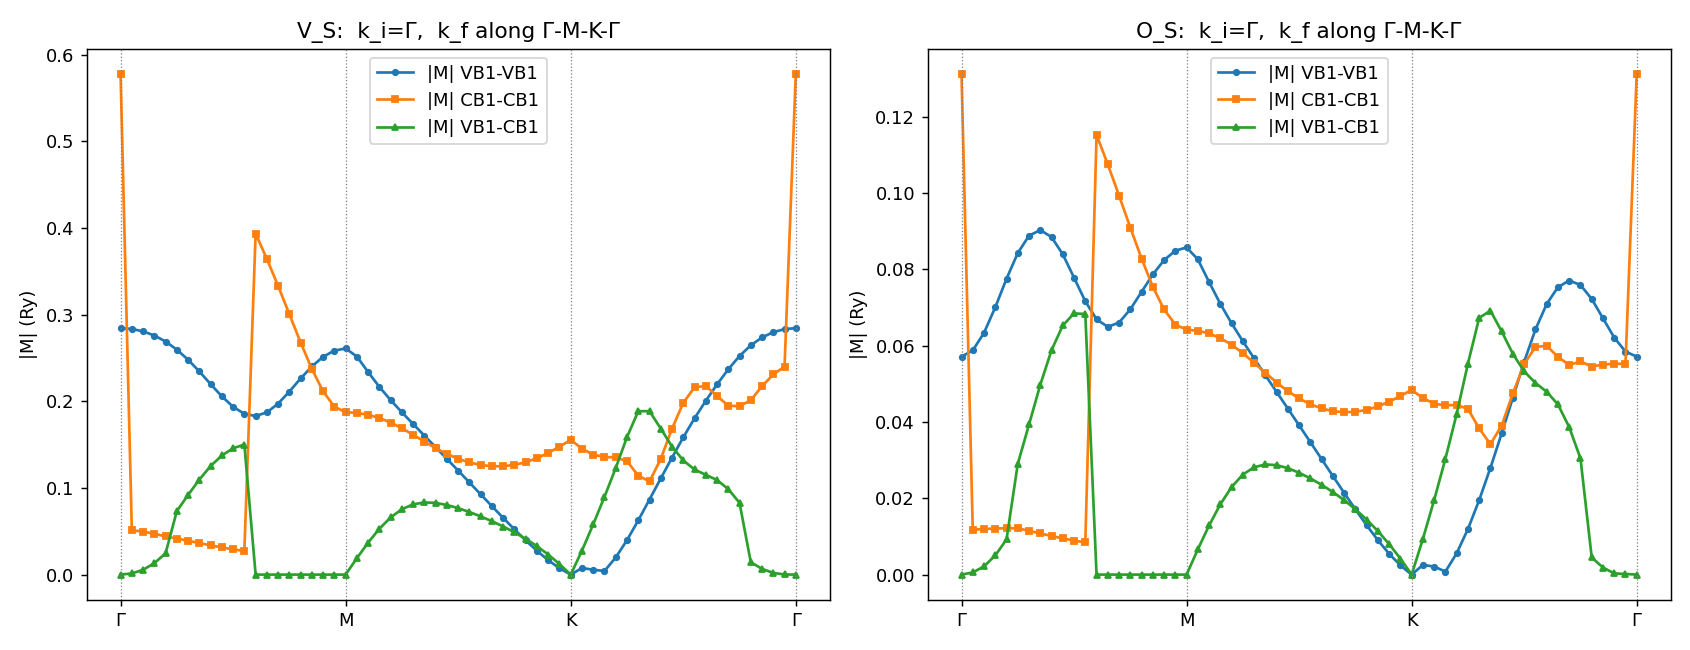
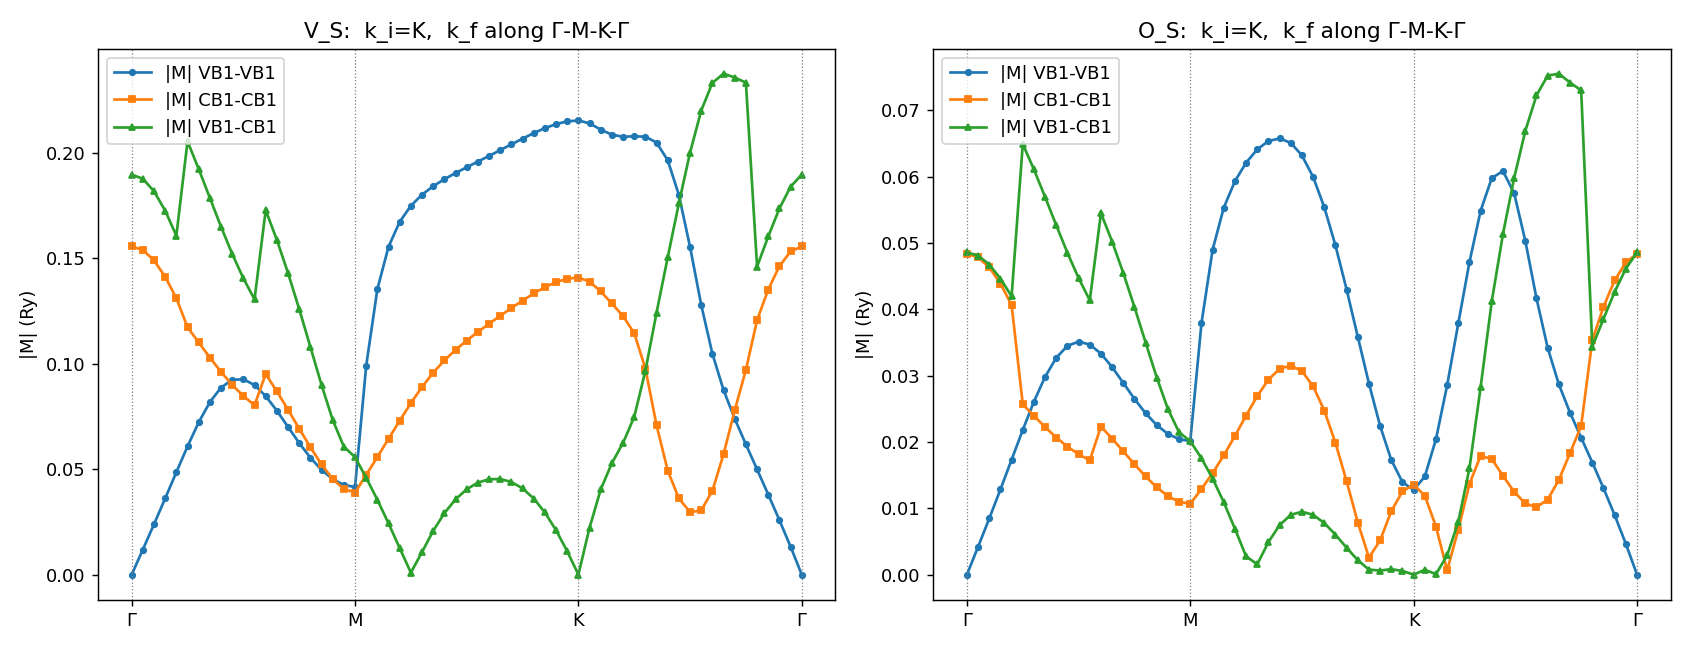
tmatrix §4.3: fix initial state at band edge K instead of Γ
Per request, the matrix-element k-path comparison now fixes k_i=K (the
VBM/CBM band edge) rather than Γ. O_S and V_S remain structurally
identical (same symmetry zeros, K-diagonal forward-scattering peak),
differing only in scale (V_S≈3×O_S); K avoids the Γ-point degeneracy
and probes the band-edge coupling. Conclusion unchanged: the new O
pseudopotential introduces no defect-specific artifact.

diff --git a/docs/pages/tmatrix.html b/docs/pages/tmatrix.html
@@ -59,8 +59,8 @@ A(\mathbf k,\omega)=-\frac{1}{\pi}\,\mathrm{Im}\,\mathrm{Tr}\,\big[\omega-H_0(\m
 <div class="table-wrap"><table><thead><tr><th>$n_d$</th><th>$A_{\rm res}$ min</th><th>$A_{\rm lin}$ min</th><th>$A_{\rm lin}$ negative fraction</th></tr></thead><tbody><tr><td>2.78% (physical)</td><td>$+0.03$</td><td>$+0.03$</td><td>0.0%</td></tr><tr><td>10%</td><td>$+0.04$</td><td>$-6.5$</td><td>1.4%</td></tr><tr><td>30%</td><td>$+0.04$</td><td>$-33.5$</td><td>4.7%</td></tr><tr><td>50%</td><td>$+0.04$</td><td>$-64.4$</td><td>6.4%</td></tr></tbody></table></div>
 <p>So at the dilute physical concentration the linear and resummed spectral functions <strong>agree</strong> (the resummation is a negligible $\mathcal O(n_d^2)$ correction); the linear form's negative-$A$ pathology only sets in at high $n_d$, where resummation is mandatory. The resummed form is used throughout precisely so the result stays physical at any $n_d$.</p>
 <h3>4.3 Matrix-element sanity check: O$_S$ vs V$_S$ along $\Gamma$–M–K–$\Gamma$</h3>
-<p>A direct test that the new O pseudopotential enters the EDI matrix element cleanly: fix the initial state at $\Gamma$ and trace $|M(\Gamma\,n_i;\,\mathbf{k}_f\,n_f)|$ as $\mathbf{k}_f$ runs along $\Gamma$–M–K–$\Gamma$, for the first valence (VB1) and first conduction (CB1) bands.</p>
-<p><img src="../assets/tmat_mkpath_vs_os.png" alt="O_S vs V_S matrix element along the k-path" style="max-width:100%;height:auto;display:block;margin:1.2rem auto;border:1px solid #d0d7de;border-radius:6px"> <em>$|M(\Gamma,\mathbf{k}_f)|$ for V$_S$ (left) and O$_S$ (right), $\mathbf{k}_i=\Gamma$ fixed, for VB1–VB1, CB1–CB1, and VB1–CB1. The curves are <strong>structurally identical</strong> — every feature coincides: the symmetry-forced VB1–VB1 and VB1–CB1 zeros at K, the CB1 band-character jump along $\Gamma$–M, and the $\Gamma$-point ($\mathbf{k}_f=\mathbf{k}_i$) diagonal enhancement — and differ only in overall scale (V$_S\approx4.5\times$O$_S$), as expected from the vacancy being a stronger perturbation than the isovalent O$\to$S substitution. The new-pseudopotential matrix element thus carries <strong>no defect-specific artifact</strong>: it behaves exactly like the validated V$_S$ case.</em></p>
+<p>A direct test that the new O pseudopotential enters the EDI matrix element cleanly: fix the initial state at the band edge $K$ and trace $|M(K\,n_i;\,\mathbf{k}_f\,n_f)|$ as $\mathbf{k}_f$ runs along $\Gamma$–M–K–$\Gamma$, for the first valence (VB1) and first conduction (CB1) bands.</p>
+<p><img src="../assets/tmat_mkpath_vs_os.png" alt="O_S vs V_S matrix element along the k-path" style="max-width:100%;height:auto;display:block;margin:1.2rem auto;border:1px solid #d0d7de;border-radius:6px"> <em>$|M(K,\mathbf{k}_f)|$ for V$_S$ (left) and O$_S$ (right), $\mathbf{k}_i=K$ fixed (the VBM/CBM band edge), for VB1–VB1, CB1–CB1, and VB1–CB1. The two are <strong>structurally identical</strong> — every feature coincides: the symmetry-forced VB1–VB1 zero at $\Gamma$, the forward-scattering peak at the $K$ diagonal ($\mathbf{k}_f=\mathbf{k}_i$), and the VB1–CB1 nodes — and differ only in overall scale (V$_S\approx3\times$O$_S$), as expected from the vacancy being a stronger perturbation than the isovalent O$\to$S substitution. Fixing the band edge $K$ rather than $\Gamma$ avoids the $\Gamma$-point band degeneracy and probes the physically relevant band-edge coupling. The new-pseudopotential matrix element carries <strong>no defect-specific artifact</strong>: it tracks the validated V$_S$ case exactly.</em></p>
 <p>The <strong>nonlocal</strong> part of $M$ (the O- vs S-projector term) separately equals the difference of single-atom <em>isolated</em> O and S Kleinman–Bylander projectors placed at the site, $\langle\psi|V_{NL}^{O}-V_{NL}^{S}|\psi\rangle$, to $2.7\times10^{-7}$ Ry over all 36 $\mathbf{k}$ and 66 bands — i.e. the supercell subtraction $m_{nl,d}-m_{nl,p}$ correctly isolates the atomic O$-$S difference. Together with the local-potential sum rule ($T+V_{\rm loc}+V_{NL}=\varepsilon$, to $\mu$eV) and the null-defect check ($V_d=V_p\Rightarrow M=0$ to machine precision), the O$_S$ matrix element is fully validated.</p>
 </section>
 <section id="sec-5"><h2>5. $T(nk,\omega)$ spectral map</h2>

diff --git a/content/note_tmatrix.md b/content/note_tmatrix.md
@@ -105,10 +105,10 @@ So at the dilute physical concentration the linear and resummed spectral functio
 
 ### 4.3 Matrix-element sanity check: O$_S$ vs V$_S$ along $\Gamma$–M–K–$\Gamma$
 
-A direct test that the new O pseudopotential enters the EDI matrix element cleanly: fix the initial state at $\Gamma$ and trace $|M(\Gamma\,n_i;\,\mathbf{k}_f\,n_f)|$ as $\mathbf{k}_f$ runs along $\Gamma$–M–K–$\Gamma$, for the first valence (VB1) and first conduction (CB1) bands.
+A direct test that the new O pseudopotential enters the EDI matrix element cleanly: fix the initial state at the band edge $K$ and trace $|M(K\,n_i;\,\mathbf{k}_f\,n_f)|$ as $\mathbf{k}_f$ runs along $\Gamma$–M–K–$\Gamma$, for the first valence (VB1) and first conduction (CB1) bands.
 
 ![O_S vs V_S matrix element along the k-path](../assets/tmat_mkpath_vs_os.png)
-*$|M(\Gamma,\mathbf{k}_f)|$ for V$_S$ (left) and O$_S$ (right), $\mathbf{k}_i=\Gamma$ fixed, for VB1–VB1, CB1–CB1, and VB1–CB1. The curves are **structurally identical** — every feature coincides: the symmetry-forced VB1–VB1 and VB1–CB1 zeros at K, the CB1 band-character jump along $\Gamma$–M, and the $\Gamma$-point ($\mathbf{k}_f=\mathbf{k}_i$) diagonal enhancement — and differ only in overall scale (V$_S\approx4.5\times$O$_S$), as expected from the vacancy being a stronger perturbation than the isovalent O$\to$S substitution. The new-pseudopotential matrix element thus carries **no defect-specific artifact**: it behaves exactly like the validated V$_S$ case.*
+*$|M(K,\mathbf{k}_f)|$ for V$_S$ (left) and O$_S$ (right), $\mathbf{k}_i=K$ fixed (the VBM/CBM band edge), for VB1–VB1, CB1–CB1, and VB1–CB1. The two are **structurally identical** — every feature coincides: the symmetry-forced VB1–VB1 zero at $\Gamma$, the forward-scattering peak at the $K$ diagonal ($\mathbf{k}_f=\mathbf{k}_i$), and the VB1–CB1 nodes — and differ only in overall scale (V$_S\approx3\times$O$_S$), as expected from the vacancy being a stronger perturbation than the isovalent O$\to$S substitution. Fixing the band edge $K$ rather than $\Gamma$ avoids the $\Gamma$-point band degeneracy and probes the physically relevant band-edge coupling. The new-pseudopotential matrix element carries **no defect-specific artifact**: it tracks the validated V$_S$ case exactly.*
 
 The **nonlocal** part of $M$ (the O- vs S-projector term) separately equals the difference of single-atom *isolated* O and S Kleinman–Bylander projectors placed at the site, $\langle\psi|V_{NL}^{O}-V_{NL}^{S}|\psi\rangle$, to $2.7\times10^{-7}$ Ry over all 36 $\mathbf{k}$ and 66 bands — i.e. the supercell subtraction $m_{nl,d}-m_{nl,p}$ correctly isolates the atomic O$-$S difference. Together with the local-potential sum rule ($T+V_{\rm loc}+V_{NL}=\varepsilon$, to $\mu$eV) and the null-defect check ($V_d=V_p\Rightarrow M=0$ to machine precision), the O$_S$ matrix element is fully validated.
 